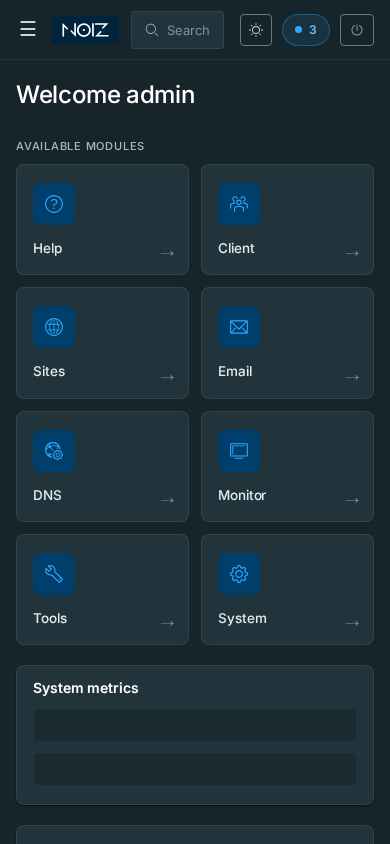
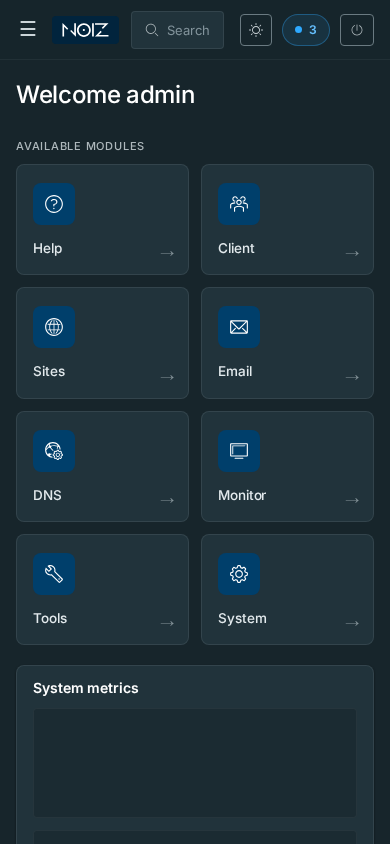
Live-panel feedback fixes: select2 anatomy, table ellipsis, charts, monitor
- select2: the container (which carries .form-control/.search_limit) is now
  a transparent wrapper — the inner .select2-choice is the field. Kills the
  double-box, the oversized filter dropdowns (30px in filter rows), and the
  clipped page-size value (padding/arrow/margin fitted to the 60px chip);
  dropdown panels get an 88px floor
- tables: cells are single-line with ellipsis again (stock behavior) —
  no more ragged word-wrap; whole-cell links ellipsize
- charts: wrapper divs get a real 110px height and Chart.js runs with
  maintainAspectRatio=false — readable curves and working tooltips instead
  of 30px ribbons (dashboard + monitor)
- monitor stateview: status cards with a colored edge instead of solid
  alert slabs
- module tiles: icons use the on-selected text tone (match the rail)
- toolbar buttons directly in #pageContent get breathing room before tables
- sidebar tree groups are collapsible (persisted carets); mobile drawer
  lists all modules first, tree/news after — same order as desktop
- long dashlet tables (Mailbox Quota etc.) collapse to 10 rows behind
  "Show all (n)"; filter buttons get hover tooltips

diff --git a/themes/earlier-dark/assets/stylesheets/earlier/components.css b/themes/earlier-dark/assets/stylesheets/earlier/components.css
@@ -100,7 +100,7 @@ ul.modules li .icon {
   margin-bottom: 14px;
   border-radius: var(--nz-radius-card);
   background: var(--nz-selected);
-  color: var(--nz-link);
+  color: var(--nz-text-on-selected);
   font-size: 20px;
   transition: background var(--nz-quick) var(--nz-ease);
 }
@@ -176,10 +176,18 @@ ul.modules li:hover::after {
   color: var(--nz-text-heading);
 }
 
+/* each chart's wrapper div gets a real height; with Chart.js
+   maintainAspectRatio=false (set in nz-theme.js) the chart fills it crisply */
+#pageContent div:has(> canvas) {
+  height: 110px;
+  padding-bottom: 0 !important;
+  margin-bottom: 12px;
+}
+
 #pageContent canvas {
   width: 100% !important;
   max-width: 100%;
-  height: auto !important;
+  height: 100% !important;
   background: var(--nz-well) !important;
   border: 1px solid var(--nz-border-soft);
   border-radius: var(--nz-radius-ctl);
@@ -253,6 +261,13 @@ body.nz .table > thead > tr > td .form-control {
   font-size: 12.5px;
 }
 
+/* filter-row select2 fields match the 30px row */
+body.nz .table > thead td .select2-container .select2-choice {
+  height: 30px;
+  line-height: 28px;
+  font-size: 12.5px;
+}
+
 /* the apply-filter button sits IN the 30px filter row — quiet, row-height */
 body.nz .table > thead td .btn,
 body.nz .table > thead td .btn[data-submit-form],
@@ -277,6 +292,7 @@ body.nz .table > tbody > tr > td {
   border-top: 1px solid var(--nz-border-soft);
   color: var(--nz-text);
   vertical-align: middle;
+  white-space: nowrap;
 }
 
 body.nz .table > tbody > tr:first-child > td { border-top: 0; }
@@ -292,6 +308,9 @@ body.nz .table > tbody > tr > td > a:not(.btn) {
   margin: -8px -12px;
   padding: 8px 12px;
   color: var(--nz-text);
+  overflow: hidden;
+  text-overflow: ellipsis;
+  white-space: nowrap;
 }
 body.nz .table > tbody > tr > td > a:not(.btn):hover { color: var(--nz-link-hover); }
 
@@ -481,6 +500,9 @@ body.nz .table > tbody .btn.formbutton-danger:focus {
 }
 
 body.nz .table td.text-right { white-space: nowrap; }
+
+/* bare toolbar buttons (DNS tools etc.) sit directly in #pageContent */
+#pageContent > .btn { margin: 0 8px 16px 0; }
 
 /* "add new" toolbars */
 .pnl_toolsarea,
@@ -1001,6 +1023,18 @@ body.nz .modal-backdrop.in { opacity: 0.6; }
 
 /* ---------- select2 (v3.5) ---------- */
 
+/* the select2 CONTAINER often carries .form-control / .search_limit — it is
+   a wrapper, not the field; the .select2-choice inside is the field */
+body.nz .select2-container.form-control,
+body.nz .select2-container.search_limit {
+  height: auto;
+  padding: 0;
+  background: transparent;
+  border: 0;
+  border-radius: 0;
+  box-shadow: none;
+}
+
 body.nz .select2-container .select2-choice {
   height: var(--nz-ctl-h);
   line-height: calc(var(--nz-ctl-h) - 2px);
@@ -1035,6 +1069,17 @@ body.nz .select2-container .select2-choice .select2-arrow b::after {
   transform: rotate(45deg);
 }
 
+/* the per-page chip is 60px wide (inline) — keep the value visible */
+body.nz .select2-container.search_limit .select2-choice {
+  height: 28px;
+  line-height: 26px;
+  padding: 0 4px 0 9px;
+  font-size: 12px;
+}
+body.nz .select2-container.search_limit .select2-choice .select2-arrow { width: 16px; }
+body.nz .select2-container.search_limit .select2-choice .select2-chosen { margin-right: 16px; }
+body.nz .select2-container.search_limit .select2-search-choice-close { display: none; }
+
 body.nz .select2-dropdown-open .select2-choice,
 body.nz .select2-container-active .select2-choice,
 body.nz .select2-container-multi.select2-container-active .select2-choices {
@@ -1043,6 +1088,7 @@ body.nz .select2-container-multi.select2-container-active .select2-choices {
 }
 
 .select2-drop {
+  min-width: 88px;
   background: var(--nz-popover);
   border: 1px solid var(--nz-border);
   border-radius: var(--nz-radius-pop);
@@ -1203,6 +1249,27 @@ body.nz .tooltip.top .tooltip-arrow { border-top-color: var(--nz-tooltip-bg); }
   border-radius: var(--nz-radius-ctl);
   font-family: var(--nz-font);
 }
+
+/* monitor stateview: server-state cards use a status edge, not a solid slab */
+body.nz .stateview .alert {
+  background: var(--nz-card);
+  border: 1px solid var(--nz-border);
+  border-left-width: 4px;
+  color: var(--nz-text);
+  padding: 14px 16px;
+}
+body.nz .stateview .alert-success { background: var(--nz-card); border-left-color: var(--nz-success); }
+body.nz .stateview .alert-warning { background: var(--nz-card); border-left-color: var(--nz-warning); }
+body.nz .stateview .alert-danger  { background: var(--nz-card); border-left-color: var(--nz-danger); }
+body.nz .stateview .alert-info    { background: var(--nz-card); border-left-color: var(--nz-info); }
+body.nz .stateview .alert h3 {
+  margin: 0 0 4px;
+  font-size: var(--nz-fs-cardtitle);
+  font-weight: 600;
+  color: var(--nz-text-heading);
+}
+body.nz .stateview .alert p { margin: 0 0 6px; color: var(--nz-text-secondary); }
+body.nz .stateview .alert a { color: var(--nz-link); }
 
 /* ---------- monitor status blocks ---------- */
 

diff --git a/themes/earlier-dark/assets/javascripts/nz-theme.js b/themes/earlier-dark/assets/javascripts/nz-theme.js
@@ -45,6 +45,9 @@
   function themeCharts() {
     if (!window.Chart || !Chart.defaults) return;
     var cs = getComputedStyle(document.body);
+    /* stock dashlets ship 30px-tall canvases; the theme gives each chart
+       wrapper a real height and lets the chart fill it */
+    Chart.defaults.maintainAspectRatio = false;
     Chart.defaults.color = cs.getPropertyValue('--nz-text-secondary').trim() || '#CBD4D8';
     Chart.defaults.borderColor = mode() === 'light'
       ? 'rgba(79, 97, 105, 0.15)' : 'rgba(133, 147, 153, 0.15)';
@@ -141,7 +144,10 @@
       var i = b.querySelector('[class*="icon-"], [class*="glyphicon-"], [class*="fa-"]');
       if (!i) return;
       var cls = Array.prototype.find.call(i.classList, function (c) { return ICON_NAMES[c]; });
-      if (cls) b.setAttribute('aria-label', ICON_NAMES[cls]);
+      if (cls) {
+        b.setAttribute('aria-label', ICON_NAMES[cls]);
+        if (!b.title) b.title = ICON_NAMES[cls];
+      }
     });
 
     /* keyboard-reachable column sorting + sort state */
@@ -152,6 +158,54 @@
       }
       var o = th.getAttribute('data-ordered');
       th.setAttribute('aria-sort', o ? (o === 'desc' ? 'descending' : 'ascending') : 'none');
+    });
+
+    /* collapsible tree groups: a caret per #sidebar section header */
+    if (scope.id === 'sidebar') {
+      scope.querySelectorAll('header').forEach(function (h) {
+        var ul = h.nextElementSibling;
+        if (!ul || ul.tagName !== 'UL' || h.querySelector('.nz-caret')) return;
+        var key = 'nz-tree:' + h.textContent.trim();
+        var btn = document.createElement('button');
+        btn.type = 'button';
+        btn.className = 'nz-caret';
+        btn.setAttribute('aria-label', 'Toggle section');
+        var collapsed = false;
+        try { collapsed = localStorage.getItem(key) === '1'; } catch (e) {}
+        ul.classList.toggle('nz-collapsed', collapsed);
+        btn.setAttribute('aria-expanded', collapsed ? 'false' : 'true');
+        btn.addEventListener('click', function () {
+          var now = !ul.classList.contains('nz-collapsed');
+          ul.classList.toggle('nz-collapsed', now);
+          btn.setAttribute('aria-expanded', now ? 'false' : 'true');
+          try { localStorage.setItem(key, now ? '1' : '0'); } catch (e) {}
+        });
+        h.appendChild(btn);
+      });
+    }
+
+    /* long dashboard dashlet tables (no sortable header = not a list view)
+       collapse to 10 rows behind a "show all" toggle */
+    scope.querySelectorAll('table.table').forEach(function (tbl) {
+      if (tbl.dataset.nzCapped || tbl.querySelector('th[data-column]')) return;
+      var rows = tbl.tBodies[0] ? Array.prototype.slice.call(tbl.tBodies[0].rows) : [];
+      if (rows.length <= 12) return;
+      tbl.dataset.nzCapped = '1';
+      rows.slice(10).forEach(function (r) { r.style.display = 'none'; });
+      var tr = document.createElement('tr');
+      var td = document.createElement('td');
+      td.colSpan = rows[0].cells.length;
+      var b = document.createElement('button');
+      b.type = 'button';
+      b.className = 'btn btn-default';
+      b.textContent = 'Show all (' + rows.length + ')';
+      b.addEventListener('click', function () {
+        rows.forEach(function (r) { r.style.display = ''; });
+        tr.remove();
+      });
+      td.appendChild(b);
+      tr.appendChild(td);
+      tbl.tBodies[0].appendChild(tr);
     });
 
     /* filter inputs inherit their column header's name */
@@ -182,6 +236,18 @@
     });
     a.classList.add('nz-active');
   });
+
+  /* the stock drawer builder nests the tree/news under the active module,
+     pushing the other modules below — reorder to match desktop */
+  if (window.ISPConfig && ISPConfig.loadPushyMenu) {
+    var origPushy = ISPConfig.loadPushyMenu;
+    ISPConfig.loadPushyMenu = function () {
+      origPushy.apply(this, arguments);
+      var nav = document.querySelector('nav.pushy');
+      var sub = nav && nav.querySelector('ul.subnavi');
+      if (nav && sub) nav.appendChild(sub);
+    };
+  }
 
   function watch(id) {
     var el = document.getElementById(id);

diff --git a/themes/earlier-dark/assets/stylesheets/earlier/app.css b/themes/earlier-dark/assets/stylesheets/earlier/app.css
@@ -208,6 +208,10 @@ body.nz .nz-modnav-item.active {
 }
 
 #sidebar header {
+  display: flex;
+  align-items: center;
+  justify-content: space-between;
+  gap: 8px;
   font-size: var(--nz-fs-caption);
   font-weight: 600;
   text-transform: uppercase;
@@ -215,6 +219,38 @@ body.nz .nz-modnav-item.active {
   color: var(--nz-rail-heading);
   padding: 16px 12px 6px;
 }
+
+/* collapsible tree groups (caret injected by nz-theme.js) */
+#sidebar .nz-caret {
+  flex: 0 0 auto;
+  width: 20px;
+  height: 20px;
+  padding: 0;
+  background: transparent;
+  border: 0;
+  border-radius: var(--nz-radius-ctl);
+  cursor: pointer;
+  position: relative;
+}
+#sidebar .nz-caret::after {
+  content: '';
+  position: absolute;
+  left: 50%;
+  top: 50%;
+  width: 7px;
+  height: 7px;
+  margin: -5px 0 0 -4px;
+  border-right: 1.6px solid var(--nz-rail-heading);
+  border-bottom: 1.6px solid var(--nz-rail-heading);
+  transform: rotate(45deg);
+  transition: transform var(--nz-quick) var(--nz-ease);
+}
+#sidebar .nz-caret:hover::after { border-color: var(--nz-rail-text-hover); }
+#sidebar .nz-caret[aria-expanded='false']::after {
+  transform: rotate(-45deg);
+  margin-top: -3px;
+}
+#sidebar ul.nz-collapsed { display: none; }
 
 #sidebar header a {
   color: inherit;
